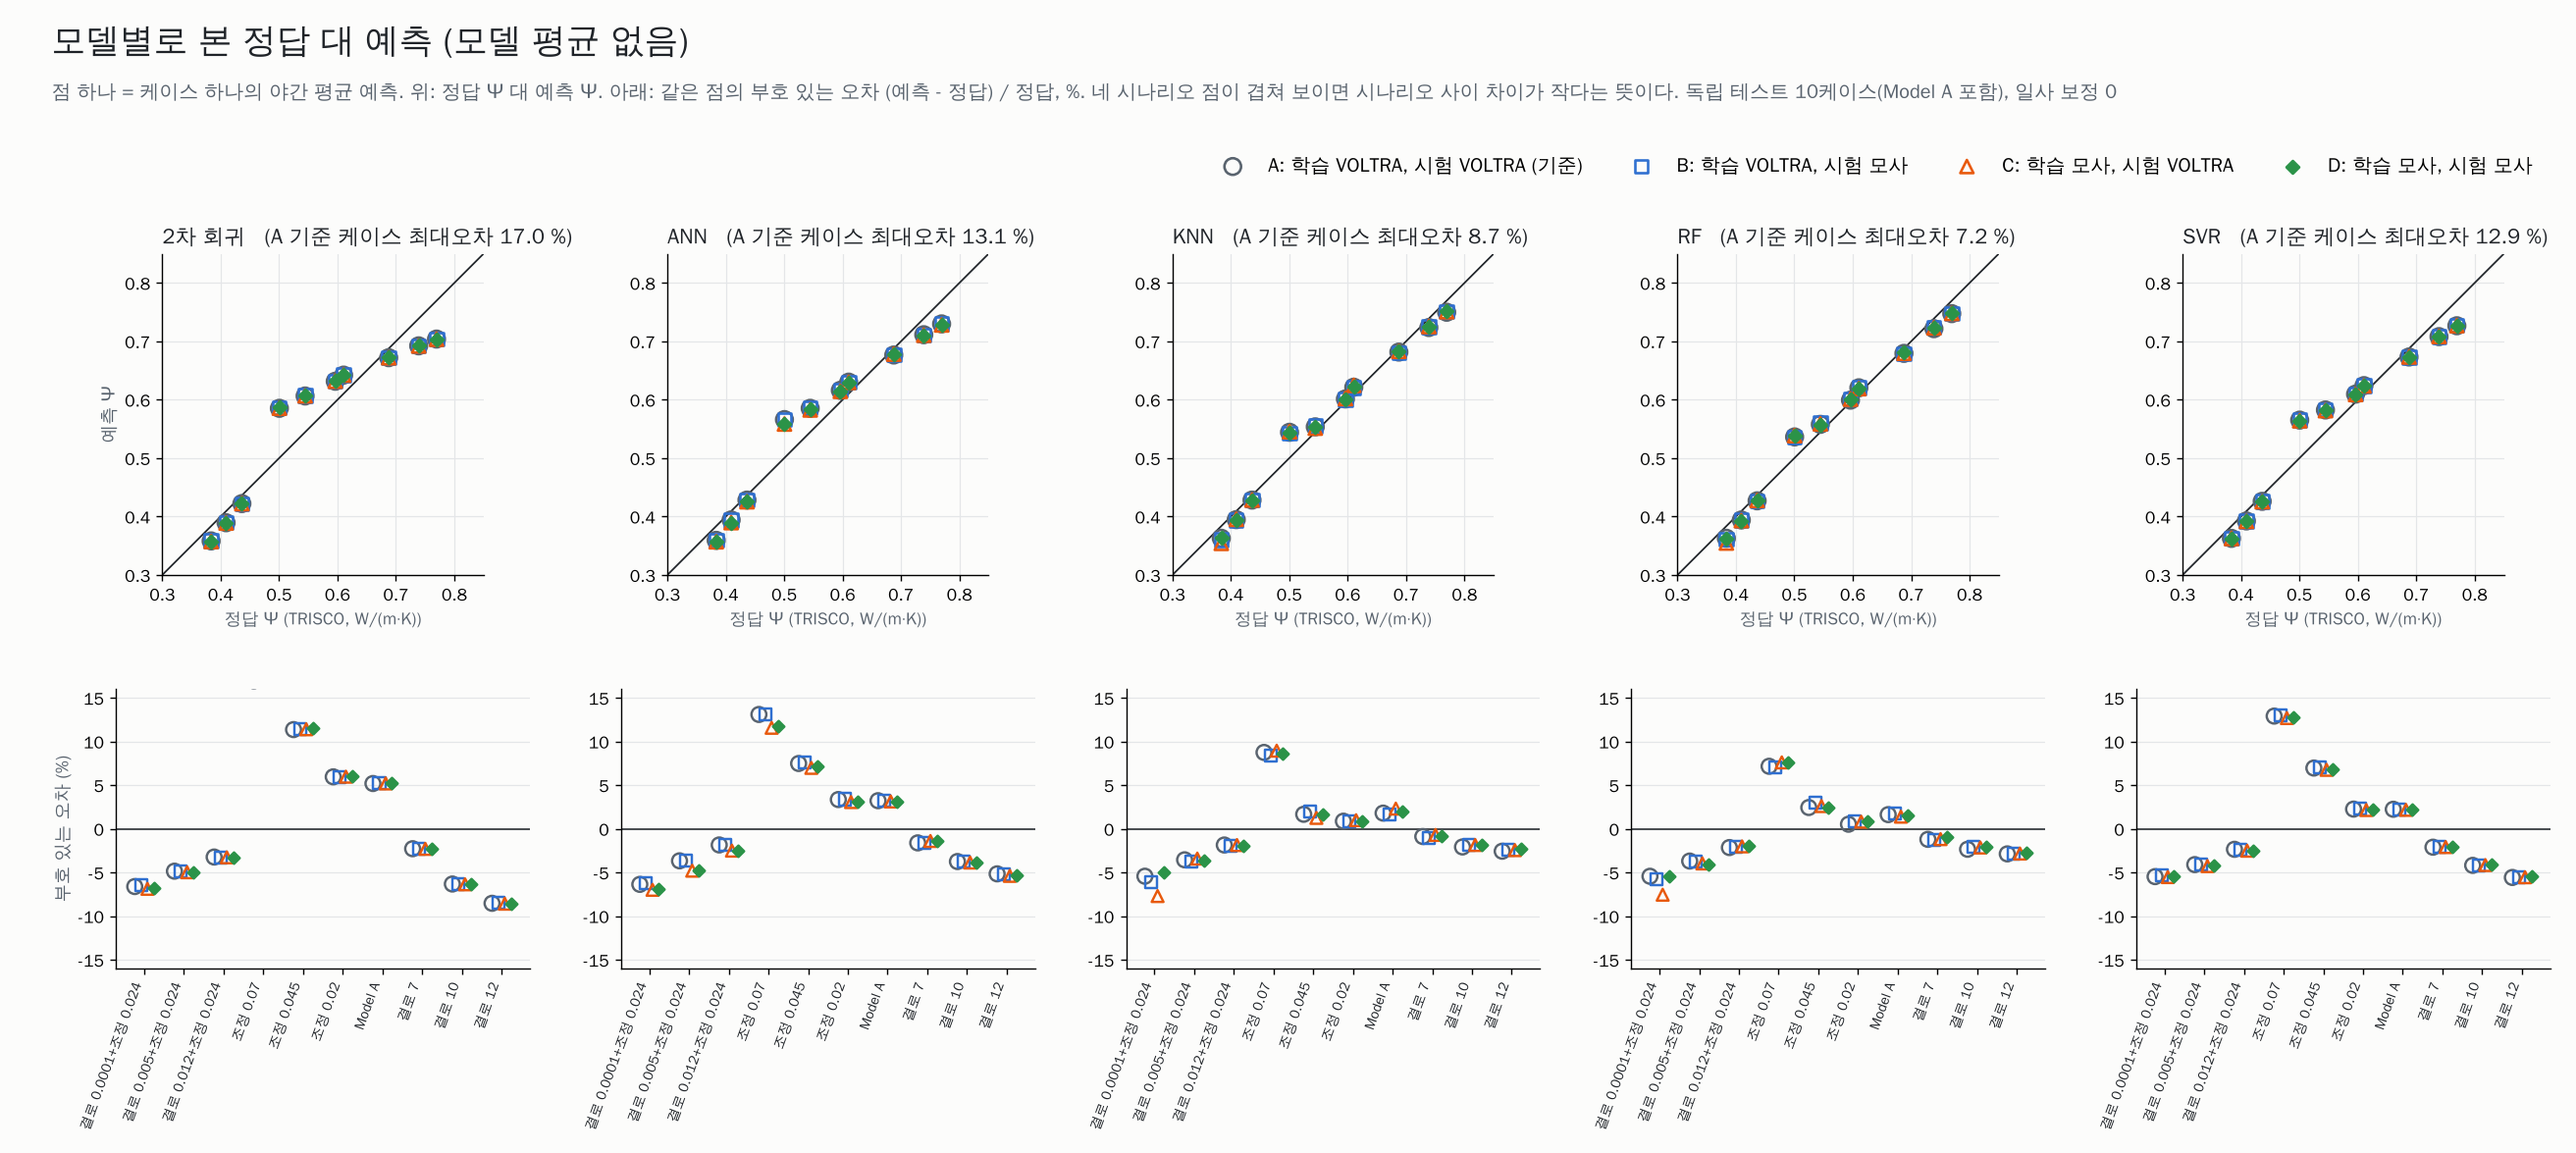
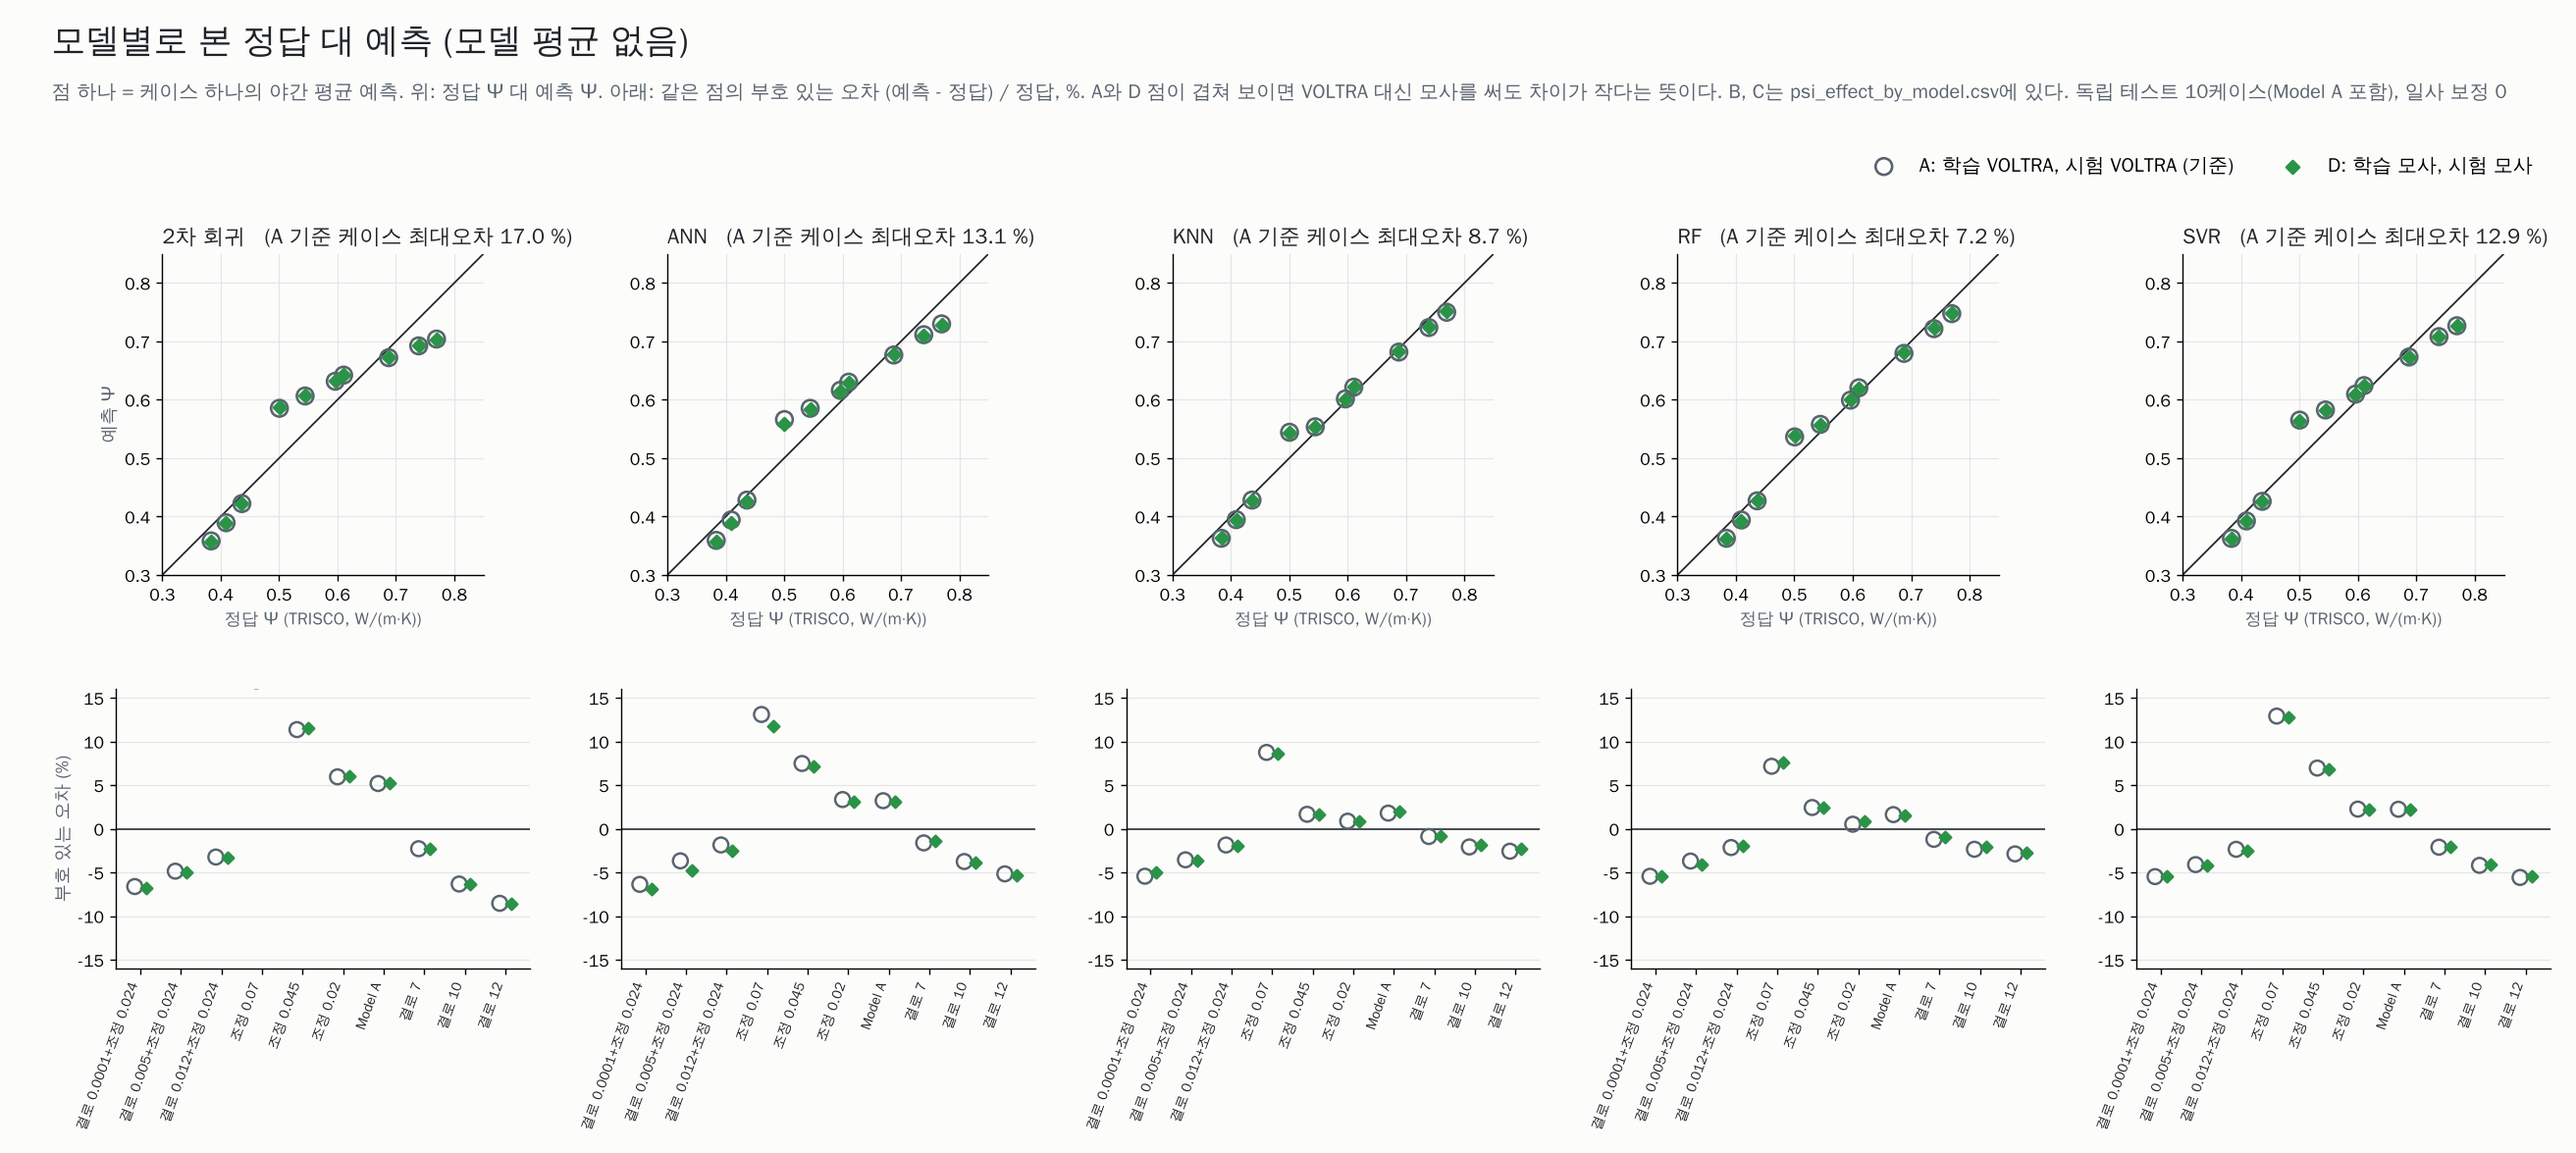
모델별 정답 대 예측 그림을 A와 D만 보이게 정리
Claude-Session: https://claude.ai/code/session_012nzsqrEyz8e8FDP6zFtUgj

diff --git a/examples/plot_psi_by_model.py b/examples/plot_psi_by_model.py
@@ -1,6 +1,6 @@
 """모사 표면온도가 Ψ 예측에 주는 영향을 모델별, 케이스별로 본다 (모델 평균이나 부호 있는 오차의 평균으로 가리지 않는다).
 입력: results/psi_endtoend/test.pkl, loco.pkl (psi_endtoend.py 결과, 일사 보정 0, 독립 테스트 10케이스 Model A 포함)
-출력: results/fig_psi_pred_by_model.png   모델 5개 x (정답 대 예측, 부호 있는 오차 %)
+출력: results/fig_psi_pred_by_model.png   모델 5개 x (정답 대 예측, 부호 있는 오차 %). A(VOLTRA만)와 D(모사만)만 보여 준다
       results/fig_psi_delta_by_model.png  모사로 바꿨을 때 예측이 달라진 양(B, C, D - A, 케이스 x 모델)
       results/accuracy/psi_effect_by_model.csv  모델별, 시나리오별 오차 (케이스 단위와 야간 단위의 평균절대, 최대절대)
 사용: python examples/plot_psi_by_model.py"""
@@ -39,14 +39,14 @@ tab = pd.DataFrame(rows); tab.round(3).to_csv(os.path.join(ROOT, "results", "acc
 # ---------------- 그림 1: 모델별 정답 대 예측과 부호 있는 오차
 fig, axs = plt.subplots(2, 5, figsize=(21, 9.4), facecolor=SURF, gridspec_kw={"height_ratios": [1.15, 1], "hspace": 0.38, "wspace": 0.22, "left": 0.045, "right": 0.99, "top": 0.78, "bottom": 0.16})
 fig.text(0.02, 0.955, "모델별로 본 정답 대 예측 (모델 평균 없음)", fontsize=20, weight="bold", color=INK)
-fig.text(0.02, 0.915, "점 하나 = 케이스 하나의 야간 평균 예측. 위: 정답 Ψ 대 예측 Ψ. 아래: 같은 점의 부호 있는 오차 (예측 - 정답) / 정답, %. 네 시나리오 점이 겹쳐 보이면 시나리오 사이 차이가 작다는 뜻이다. 독립 테스트 10케이스(Model A 포함), 일사 보정 0", fontsize=11.5, color=MUTED)
-xs = np.arange(len(cases)); lim = [0.3, 0.85]
+fig.text(0.02, 0.915, "점 하나 = 케이스 하나의 야간 평균 예측. 위: 정답 Ψ 대 예측 Ψ. 아래: 같은 점의 부호 있는 오차 (예측 - 정답) / 정답, %. A와 D 점이 겹쳐 보이면 VOLTRA 대신 모사를 써도 차이가 작다는 뜻이다. B, C는 psi_effect_by_model.csv에 있다. 독립 테스트 10케이스(Model A 포함), 일사 보정 0", fontsize=11.5, color=MUTED)
+xs = np.arange(len(cases)); lim = [0.3, 0.85]; SHOW1 = "AD"
 for j, m in enumerate(MODELS):
     a1, a2 = axs[0, j], axs[1, j]
-    for s in "ABCD":
+    for s in SHOW1:
         p = P(m, s).values; a = np.array([act[c] for c in cases])
         a1.scatter(a, p, marker=MK[s], s=SZ[s], facecolor="none" if s in "ABC" else COL[s], edgecolor=COL[s], lw=1.5, zorder=3, label=SC[s] if j == 0 else None)
-        a2.scatter(xs + {"A": -0.24, "B": -0.08, "C": 0.08, "D": 0.24}[s], (p - a) / a * 100, marker=MK[s], s=SZ[s] * 0.8, facecolor="none" if s in "ABC" else COL[s], edgecolor=COL[s], lw=1.4, zorder=3)
+        a2.scatter(xs + {"A": -0.14, "D": 0.14}[s], (p - a) / a * 100, marker=MK[s], s=SZ[s] * 0.8, facecolor="none" if s in "ABC" else COL[s], edgecolor=COL[s], lw=1.4, zorder=3)
     a1.plot(lim, lim, color=INK, lw=1); a1.set_xlim(lim); a1.set_ylim(lim); a1.set_aspect("equal"); a1.grid(color=GRID, lw=0.7); a1.set_axisbelow(True)
     a1.set_xlabel("정답 Ψ (TRISCO, W/(m·K))", fontsize=10, color=MUTED)
     if j == 0: a1.set_ylabel("예측 Ψ", fontsize=10.5, color=MUTED)
@@ -57,7 +57,7 @@ for j, m in enumerate(MODELS):
     for a_ in (a1, a2):
         a_.set_facecolor(SURF)
         for sp_ in ("top", "right"): a_.spines[sp_].set_visible(False)
-fig.legend(*axs[0, 0].get_legend_handles_labels(), loc="upper right", ncol=4, frameon=False, fontsize=11.5, bbox_to_anchor=(0.99, 0.88))
+fig.legend(*axs[0, 0].get_legend_handles_labels(), loc="upper right", ncol=2, frameon=False, fontsize=11.5, bbox_to_anchor=(0.99, 0.88))
 fig.savefig(os.path.join(ROOT, "results", "fig_psi_pred_by_model.png"), dpi=125, facecolor=SURF); plt.close(fig)
 # ---------------- 그림 2: 모사로 바꾸면 예측이 얼마나 달라지나 (케이스 x 모델, 부호 있는 변화 %p)
 fig, axs = plt.subplots(1, 3, figsize=(19, 6.8), facecolor=SURF, gridspec_kw={"wspace": 0.22, "left": 0.12, "right": 0.97, "top": 0.8, "bottom": 0.09})
